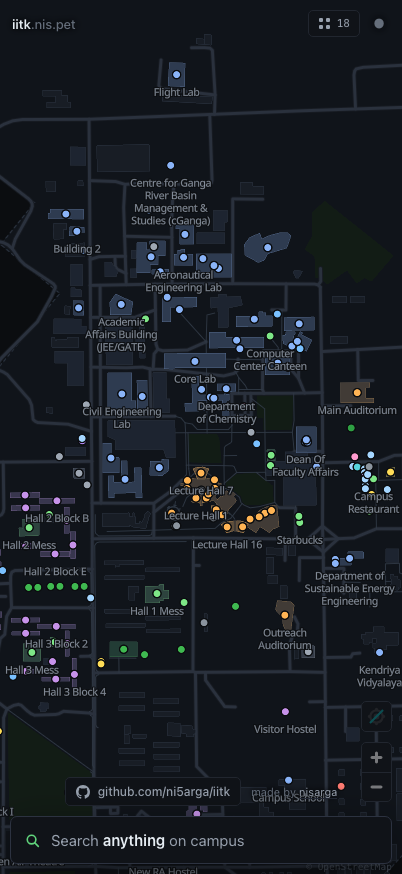
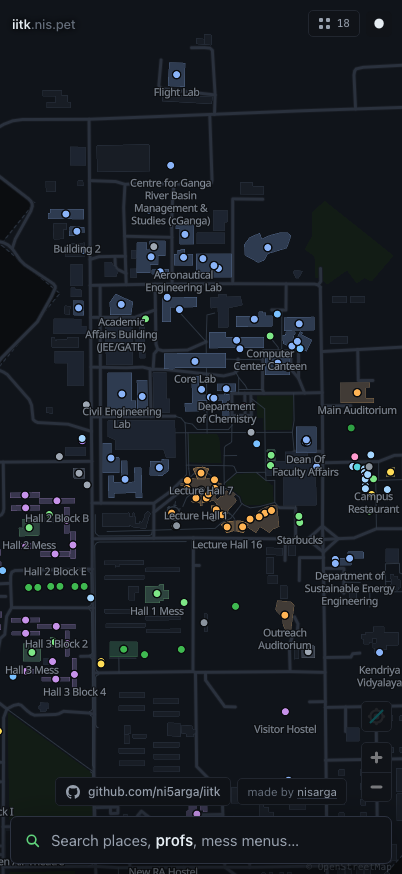
fix(ui): unbreak the search palette on phones

diff --git a/src/ui/palette.ts b/src/ui/palette.ts
@@ -12,7 +12,7 @@ const esc = (s: unknown) => String(s ?? '').replace(/[&<>"']/g, (c) =>
   ({ '&': '&amp;', '<': '&lt;', '>': '&gt;', '"': '&quot;', "'": '&#39;' }[c]!))
 
 const GROUP: Record<Kind, string> = {
-  mess: 'Mess', place: 'Places', person: 'People',
+  mess: 'Mess', place: 'Places', person: 'Faculty',
   layer: 'Layers', action: 'Commands', hint: '',
 }
 const ORDER: Kind[] = ['mess', 'place', 'person', 'layer', 'action']
@@ -35,10 +35,19 @@ export function initPalette(h: PaletteHost) {
   input.addEventListener('keydown', onKey)
 
   root.addEventListener('mousedown', (e) => {
-    // Click on the backdrop closes; clicks inside the box must not steal focus.
-    if (e.target === root) closePalette()
-    else e.preventDefault()
+    // Tapping the backdrop closes. Inside the box, swallow the default so a
+    // click on a result does not blur the input — but never for the input
+    // itself or a real control, or a tap can no longer refocus it and the
+    // on-screen keyboard will not come back.
+    const t = e.target as HTMLElement
+    if (t === root) { closePalette(); return }
+    if (t === input || t.closest('button, a, input')) return
+    e.preventDefault()
   })
+
+  // Full-screen on a phone means no backdrop to tap and no Escape key, so the
+  // palette needs a way out that does not depend on either.
+  document.getElementById('palette-close')!.addEventListener('click', closePalette)
 
   list.addEventListener('click', (e) => {
     const row = (e.target as HTMLElement).closest('.row') as HTMLElement | null
@@ -182,7 +191,7 @@ function paintCursor() {
 function welcome() {
   const ex = host.index.examples()
   return `<div class="empty">
-    <b>Search every place, person and menu on campus</b>
+    <b>Places, profs and mess menus</b>
     ${ex.map((e) => `<code data-try="${esc(e)}">${esc(e)}</code>`).join('')}
   </div>`
 }

diff --git a/src/styles.css b/src/styles.css
@@ -213,9 +213,13 @@ kbd {
   gap: 10px;
 }
 #foot .by {
-  font-size: 11.5px;
+  padding: 7px 11px;
+  background: var(--bg-1);
+  border: 1px solid var(--line);
+  border-radius: var(--r);
+  font-size: 12px;
   color: var(--fg-3);
-  text-shadow: 0 0 4px var(--halo), 0 0 8px var(--halo);
+  white-space: nowrap;
 }
 #foot .by a {
   display: inline;
@@ -417,6 +421,18 @@ kbd {
 }
 #palette-input::placeholder { color: var(--fg-3); }
 #palette-timing { font-family: var(--mono); font-size: 10px; color: var(--fg-3); }
+#palette-close {
+  display: none;
+  flex: none;
+  width: 30px; height: 30px;
+  margin-right: -6px;
+  place-items: center;
+  font-size: 22px;
+  line-height: 1;
+  color: var(--fg-3);
+  border-radius: var(--r);
+}
+#palette-close:hover { color: var(--fg); }
 
 #palette-results { flex: 1; overflow-y: auto; padding: 5px; }
 #palette-results::-webkit-scrollbar { width: 8px; }
@@ -570,8 +586,9 @@ kbd {
     display: flex;
     justify-content: center;
   }
+  #foot { gap: 6px; }
   #foot > a { padding: 6px 10px; font-size: 12px; }
-  #foot .by { font-size: 11px; }
+  #foot .by { padding: 6px 9px; font-size: 11.5px; }
   body:has(#panel:not([hidden])) #foot { display: none; }
 
   /* Eighteen labels loose over the map is clutter whichever way they wrap, so
@@ -734,6 +751,7 @@ kbd {
     padding-top: env(safe-area-inset-top);
   }
   #palette-input { padding: 16px 0; font-size: 16px; } /* 16px stops iOS zooming in */
+  #palette-close { display: grid; }
   #palette-results { padding: 4px 4px calc(12px + env(safe-area-inset-bottom)); }
   .row { padding: 11px 12px; }
   .row-title { font-size: 14.5px; }

diff --git a/index.html b/index.html
@@ -25,7 +25,7 @@
         <circle cx="7" cy="7" r="4.6" fill="none" stroke="currentColor" stroke-width="1.7"/>
         <path d="M10.5 10.5 L14.2 14.2" stroke="currentColor" stroke-width="1.7" stroke-linecap="round"/>
       </svg>
-      <span class="ph">Search <b>anything</b> on campus</span>
+      <span class="ph">Search places, <b>profs</b>, mess menus…</span>
       <kbd>⌘K</kbd>
     </button>
     <button id="layers-btn" type="button" aria-expanded="false" aria-controls="layers">
@@ -73,6 +73,7 @@
                placeholder="mess dinner · L20 · water · cycle · prof …"
                aria-label="Search campus" aria-controls="palette-results" aria-expanded="true">
         <span id="palette-timing" aria-hidden="true"></span>
+        <button id="palette-close" type="button" aria-label="Close search">&times;</button>
       </div>
       <div id="palette-results" role="listbox"></div>
       <footer id="palette-foot">
